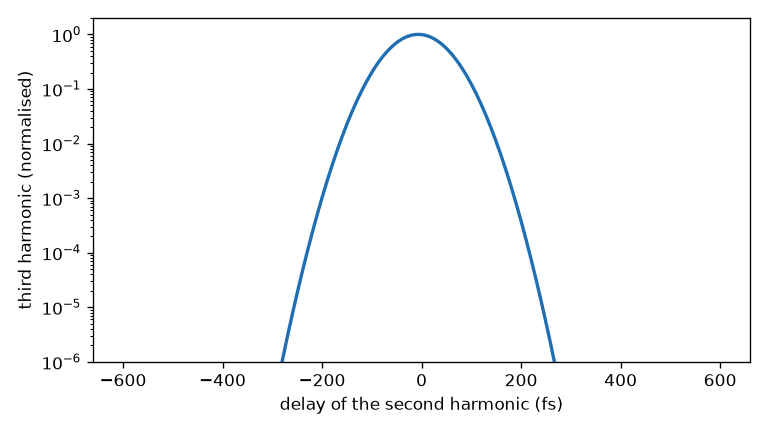
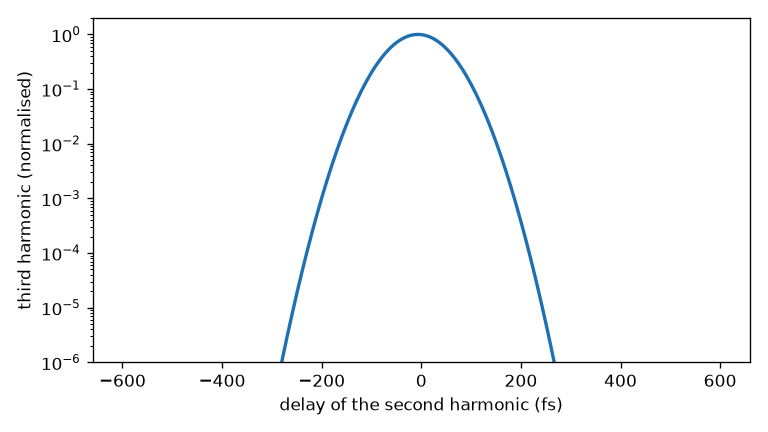
Status: Python test count; regenerated example figures from the verification run

diff --git a/PROJECT_STATUS.md b/PROJECT_STATUS.md
@@ -9,7 +9,7 @@ What comes next: [ROADMAP.md](ROADMAP.md). Changes: [CHANGELOG.md](CHANGELOG.md)
 |---|---|
 | `dotnet build UltrafastEngine.sln -c Release` (net10.0 and net48) | 0 errors; the only warning is the expected missing ZOS-API (the Zemax binding then builds against stubs) |
 | C# tests, `--slow` | **468 pass, 0 fail, 8 skipped** (7 `GpuTests` without a GPU device; the opt-in HAPI test) |
-| Python tests (hosted engine, `ULTRAFAST_SLOW=1`, with pyNLO and LightPipes) | **126 pass, 1 skipped** |
+| Python tests (hosted engine, `ULTRAFAST_SLOW=1`, with pyNLO and LightPipes) | **127 pass, 1 skipped** |
 | Component tests (`tests/components/run_all.py`: 10 families covering linear optics, splitters, polarisation, crystals, nonlinear media, spatial components, instruments) | **1688 / 1691 checks** pass against analytic answers; **3 are marked KNOWN** (a 1.5-cycle pulse broadened to zero frequency at 2 µm / 10 fs, reported by a warning), 0 fail |
 | Paper replications (`build/paper_check.py`) | 12 folders, 0 hard failures (fast tier); the soft checks mark what does not reproduce (see each README) |
 | Examples and tutorials (`build/example_check.py`, strict options) | 0 problems; the C++ example and the OpticStudio export (07) are manual |
